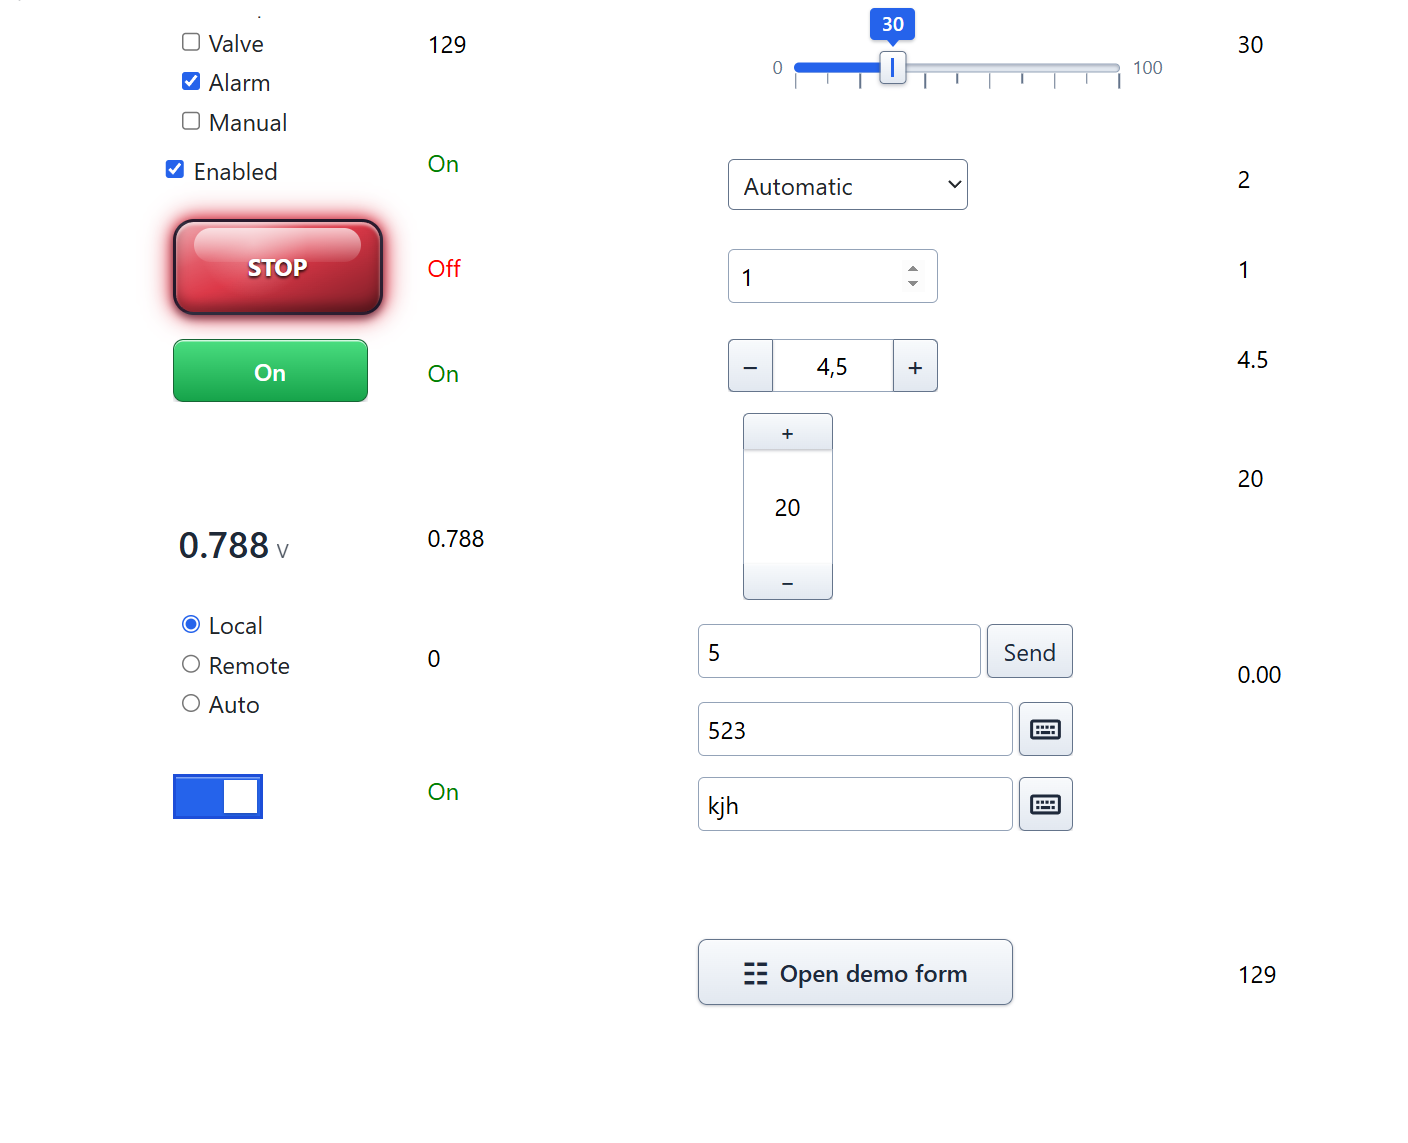
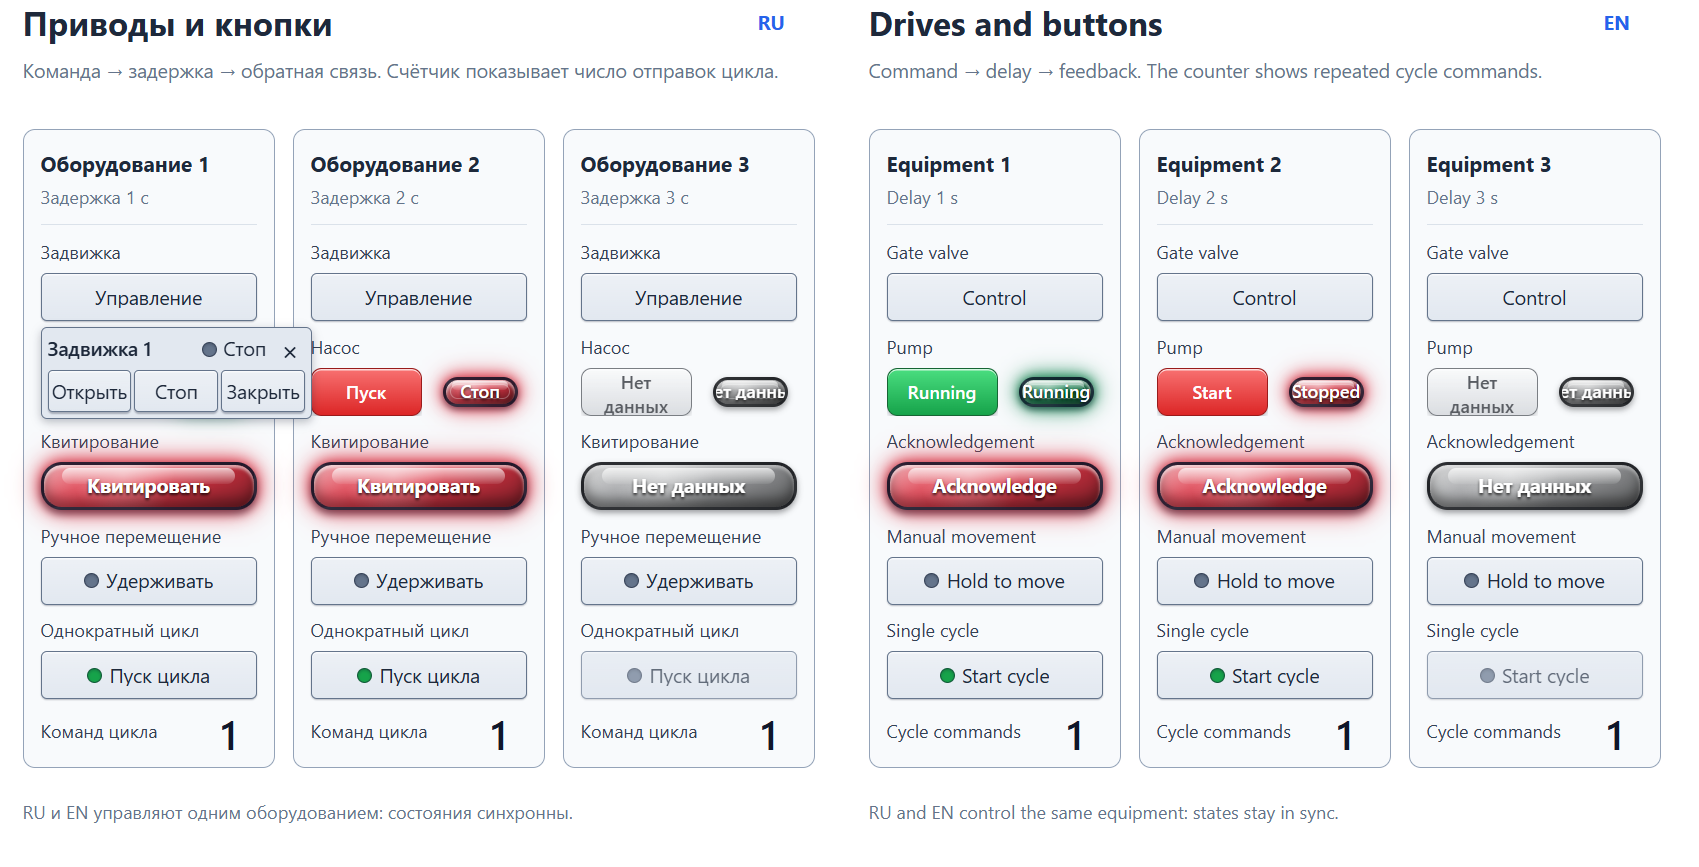
Readme Fix

diff --git a/SharewareDrivers/ScadaWeb/PlgMimControlsJP/Readme.md b/SharewareDrivers/ScadaWeb/PlgMimControlsJP/Readme.md
@@ -469,16 +469,13 @@ The demonstration shows the capacitance components on the Rapid SCADA working di
 
 ## Screenshots / Скриншоты
 
-### Runtime mimic / Рабочая мнемосхема
-
 ![PlgMimControlsJP components in a running Rapid SCADA mimic](https://raw.githubusercontent.com/JurasskPark/RapidScada_v6/refs/heads/master/SharewareDrivers/ScadaWeb/PlgMimControlsJP/Source/PlgMimControlsJP_001.png)
 ![PlgMimControlsJP components in a running Rapid SCADA mimic](https://raw.githubusercontent.com/JurasskPark/RapidScada_v6/refs/heads/master/SharewareDrivers/ScadaWeb/PlgMimControlsJP/Source/PlgMimControlsJP_002.png)
-
-### Mimic editor / Редактор мнемосхемы
-
 ![PlgMimControlsJP components in a running Rapid SCADA mimic](https://raw.githubusercontent.com/JurasskPark/RapidScada_v6/refs/heads/master/SharewareDrivers/ScadaWeb/PlgMimControlsJP/Source/PlgMimControlsJP_003.png)
-
-
+![PlgMimControlsJP components in a running Rapid SCADA mimic](https://raw.githubusercontent.com/JurasskPark/RapidScada_v6/refs/heads/master/SharewareDrivers/ScadaWeb/PlgMimControlsJP/Source/PlgMimControlsJP_004.png)
+![PlgMimControlsJP components in a running Rapid SCADA mimic](https://raw.githubusercontent.com/JurasskPark/RapidScada_v6/refs/heads/master/SharewareDrivers/ScadaWeb/PlgMimControlsJP/Source/PlgMimControlsJP_005.png)
+![PlgMimControlsJP components in a running Rapid SCADA mimic](https://raw.githubusercontent.com/JurasskPark/RapidScada_v6/refs/heads/master/SharewareDrivers/ScadaWeb/PlgMimControlsJP/Source/PlgMimControlsJP_006.png)
+![PlgMimControlsJP components in a running Rapid SCADA mimic](https://raw.githubusercontent.com/JurasskPark/RapidScada_v6/refs/heads/master/SharewareDrivers/ScadaWeb/PlgMimControlsJP/Source/PlgMimControlsJP_007.png)
 
 ## License / Лицензия
 
